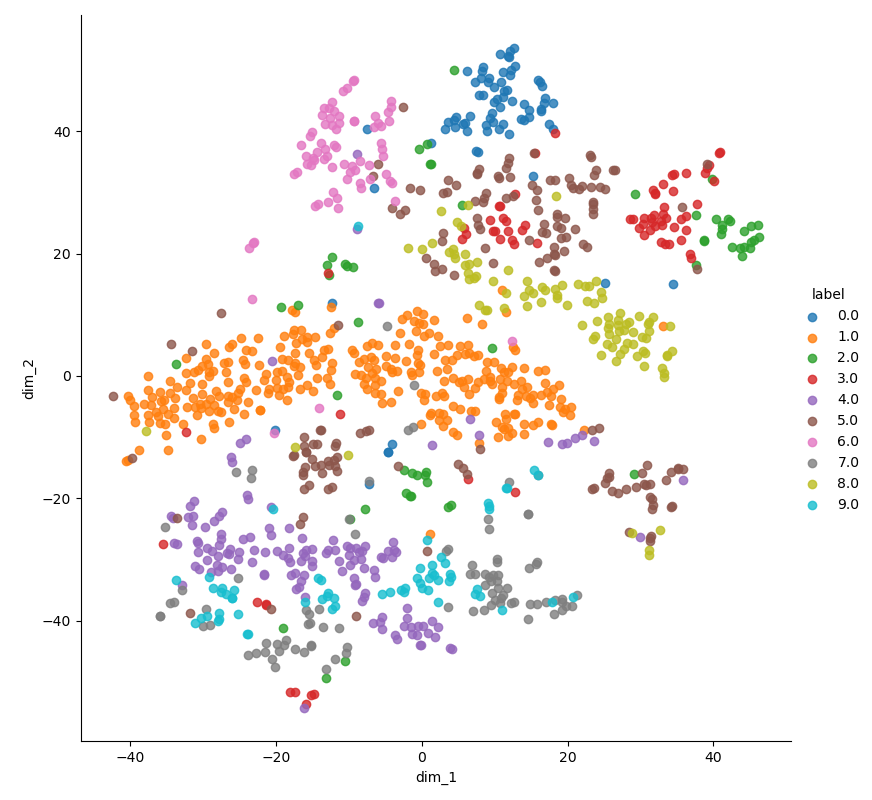
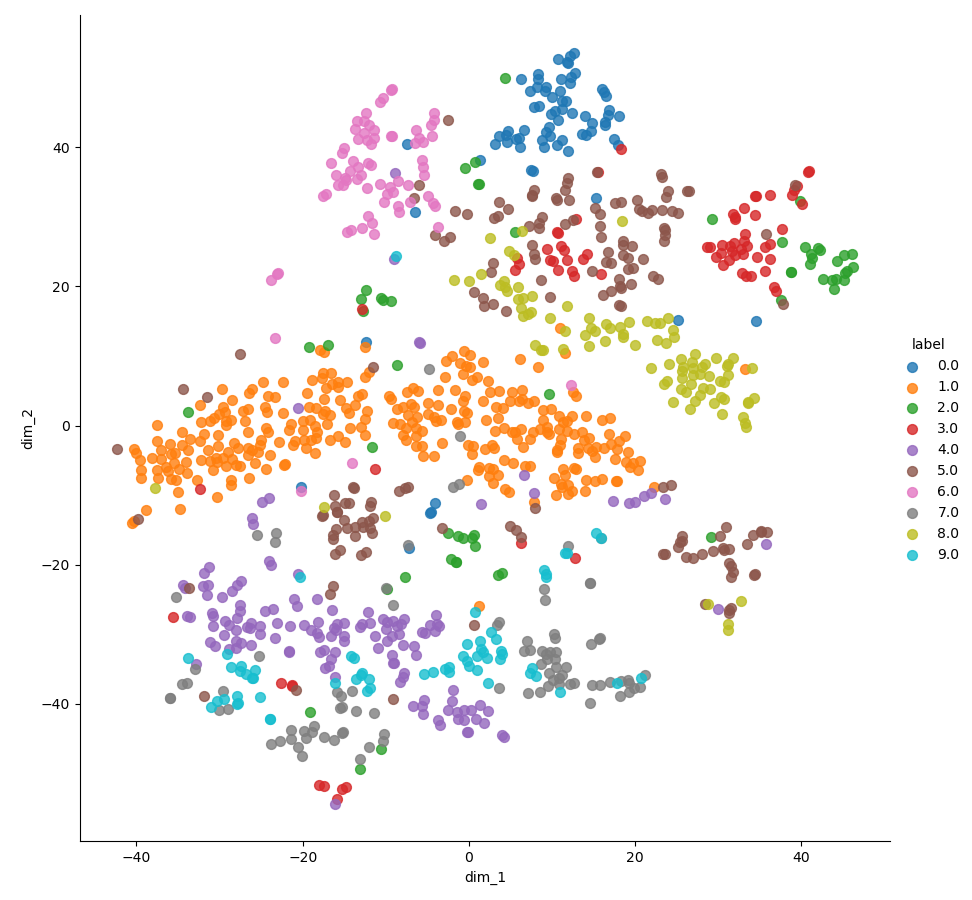
updating maker size of wrong classification

diff --git a/visualize_image.py b/visualize_image.py
@@ -76,42 +76,46 @@ def view_SNE():
 
     # load data 
     num_users = 10
+    X_all, y_pred_all, y_all = np.array([]), np.array([]), np.array([])
 
-    test_data, _ = test_load_data(user_id=0, dataset_name='mnist')
-    y_pred = load_model(test_data)
-    X, y = test_data['x'], test_data['y']
-    X_reshape = np.array([np.asarray(x) for x in X])
-    y_pred = np.asarray(y_pred)
-
-    X_all = X_reshape
-    y_all = y 
-
-    for user in range(1, num_users, 1): 
-        print(user)
+    for user in range(num_users):
         test_data, _ = test_load_data(user_id=user, dataset_name='mnist')
         y_pred = load_model(test_data)
         X, y = test_data['x'], test_data['y']
         
         X_reshape = np.array([np.asarray(x) for x in X])
+        y = np.array(y)
         y_pred = np.asarray(y_pred)
 
-        X_all = np.concatenate((X_all, X_reshape), axis=0)
-        y_all = np.concatenate((y_all, y_pred), axis=0)
+        X_all = np.concatenate((X_all, X_reshape), axis=0) if X_all.size else X_reshape
+        y_pred_all = np.concatenate((y_pred_all, y_pred), axis=0) if y_pred_all.size else y_pred
+        y_all = np.concatenate((y_all, y), axis=0) if y_all.size else y 
     
     print(f"X_all.shape = {X_all.shape}")
     print(f"y_all.shape = {y_all.shape}")
 
     tsne_data = model.fit_transform(X_all)
+    print(f"tsne_data.shape = {tsne_data.shape}")
+
+    # set marker size 
+    dist = np.abs(y_pred_all - y_all) 
+    widx = np.where(dist > 0)[0]
+    default_size = 50.0 
+    s = np.ones(y_all.size) * default_size
+    s[widx] = 100.0
+    
+    print(f"s.size = {s.size} widx.shape = {widx.shape}")
 
     # Creating a new data frame which helps us in ploting the result data
-    tsne_data = np.vstack((tsne_data.T, np.asarray(y_all))).T
+    tsne_data = np.vstack((tsne_data.T, y_pred_all)).T
     tsne_df = pd.DataFrame(data=tsne_data, columns=("dim_1", "dim_2", "label"))
 
     # Ploting the result of tsne
-    sn.FacetGrid(tsne_df, hue="label", height=8).map(plt.scatter, 'dim_1', 'dim_2', alpha=0.8).add_legend()
+    sn.FacetGrid(tsne_df, hue="label", height=9).map(plt.scatter, 'dim_1', 'dim_2', alpha=0.8, s=s).add_legend()
     #Use size if height results in warning.
-
     plt.savefig(f'./figures/mnist/images/tSNE.png')
+    plt.close()
+
     plt.show()
 
 if __name__=='__main__': 
